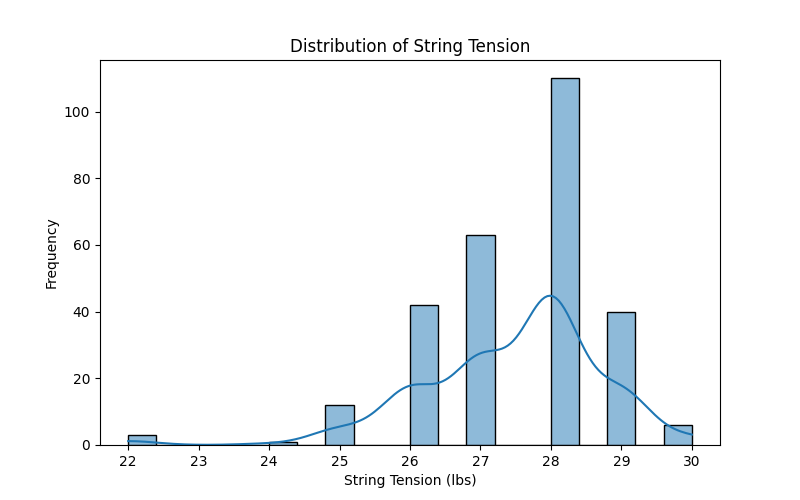
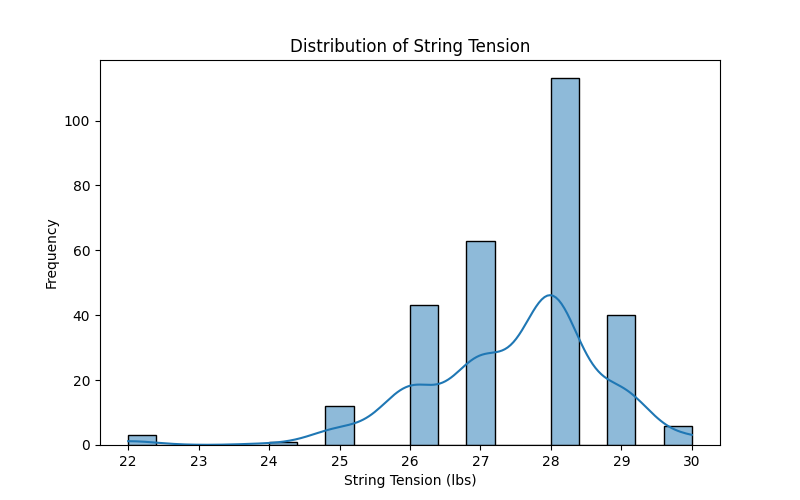
updated summary.md

diff --git a/summary.md b/summary.md
@@ -1,6 +1,6 @@
 #Stringing Analysis Summary
 
-**Unique Players:** 46
+**Unique Players:** 47
 **Unique Rackets:** 36
 **Unique Strings:** 11
 
@@ -10,10 +10,10 @@
 |:-----------|--------:|
 | AX88D Pro  |      50 |
 | AX88D      |      42 |
-| AX100ZZ    |      34 |
-| Arc 11 Pro |      23 |
+| AX100ZZ    |      36 |
+| Arc 11 Pro |      24 |
 | NF800 Pro  |      18 |
-| NF800      |      11 |
+| NF800      |      12 |
 | Assorted   |      11 |
 | AX99       |      11 |
 | AX88D Pro  |      10 |
@@ -25,12 +25,12 @@
 | BG66U    |      80 |
 | NBG95    |      60 |
 | BG65Ti   |      52 |
-| BG80     |      21 |
+| BG80     |      22 |
 | Gosen    |      17 |
-| Ex65     |      15 |
+| Ex65     |      16 |
 | BG65     |      14 |
 | NBG98    |       7 |
-| AB       |       4 |
+| AB       |       5 |
 | Ex68     |       3 |
 
 ## 📈 Average String Tension by Racket (Top 10)
@@ -39,7 +39,7 @@
 |:----------------|----------:|
 | Ryuga II        |   29      |
 | Z Strike        |   28.875  |
-| AX100ZZ         |   28.3529 |
+| AX100ZZ         |   28.3333 |
 | AX99 Pro        |   28.2    |
 | AX88D           |   28.1667 |
 | AuraSpeed 90K M |   28      |
